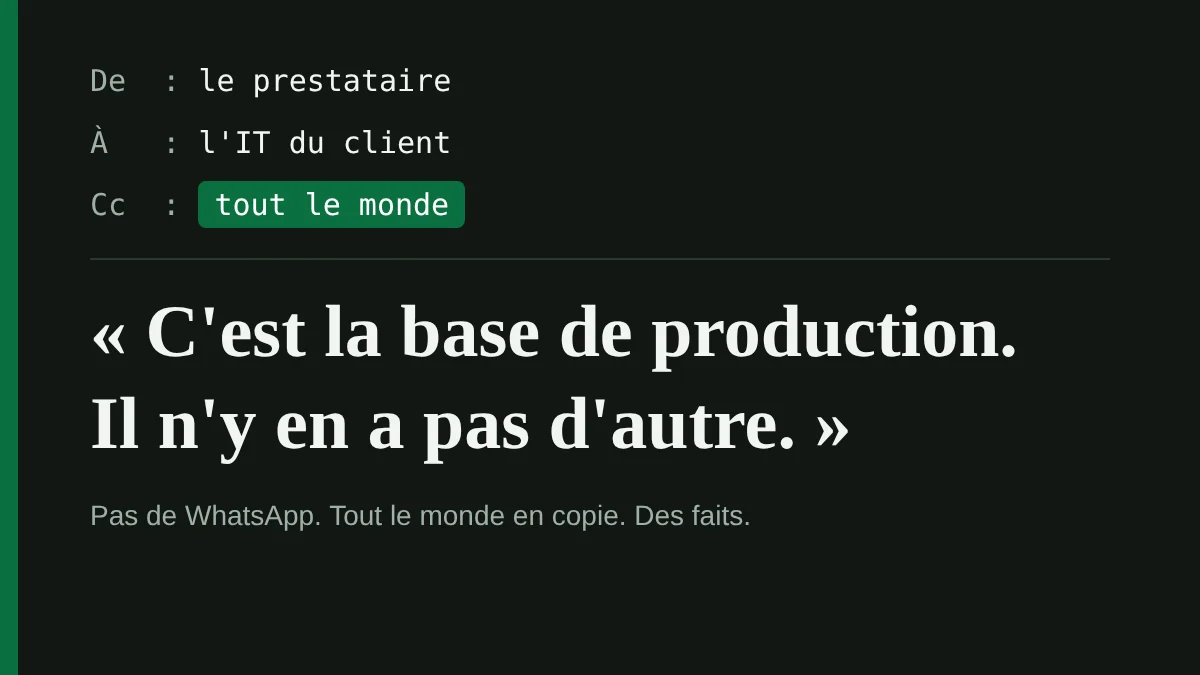
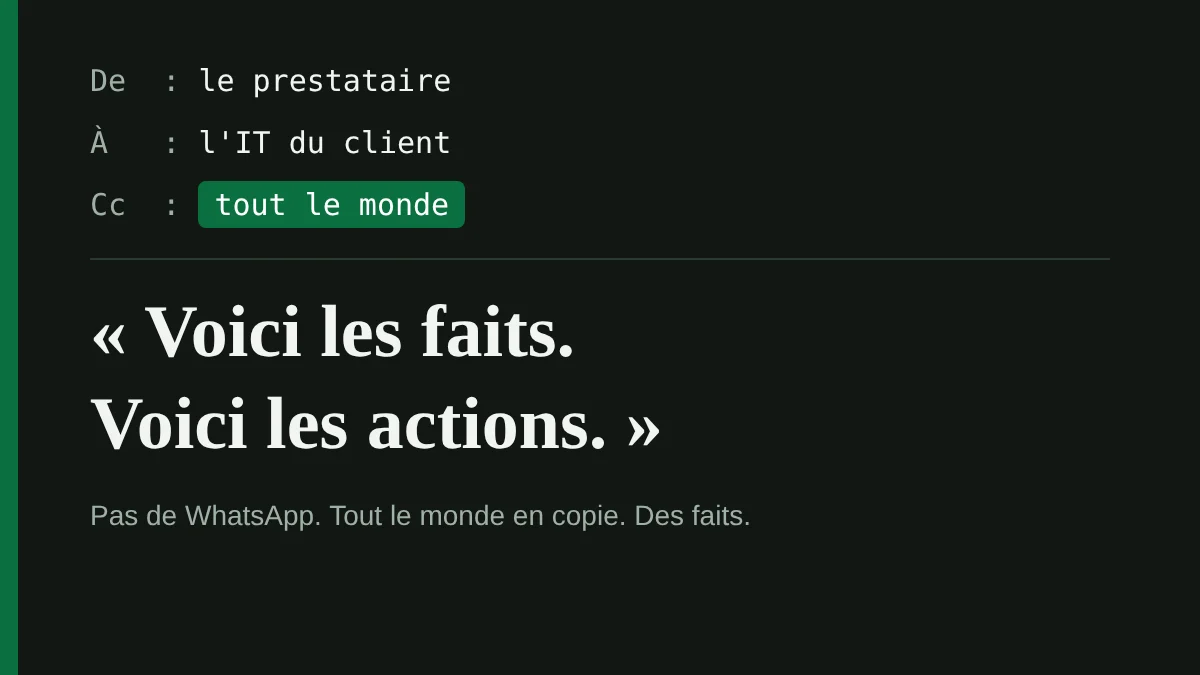
Billet IT client : anonymiser davantage (FR et EN)
Citations remplacées par des paraphrases, dates, heures, nombres et
détails techniques retirés, image de couverture sans citation du fil.

Claude-Session: https://claude.ai/code/session_015fgg8zxRFwjJopV1vDo4i5

Changed region(s): [[0.1233, 0.4356, 0.8633, 0.56], [0.0617, 0.5911, 0.6783, 0.6844], [0.6783, 0.6222, 0.7092, 0.6533]]

diff --git a/content/fr/20261110-remettre-it-client-a-sa-place.md b/content/fr/20261110-remettre-it-client-a-sa-place.md
@@ -18,24 +18,24 @@ J'ai une règle, tirée de l'expérience : plus il est junior, moins il connaît
 
 L'IT expérimenté pose deux questions, lit le README et déploie. Le junior, lui, doit montrer qu'il existe. Alors il fait des choses que personne ne lui a demandées.
 
-Exemple de cette semaine. J'ai retiré les noms, le reste est exact.
+Un exemple récent. J'ai retiré les noms et changé les détails qui permettraient de reconnaître le projet. Le déroulé, lui, est vrai.
 
-Lundi, 16 h 51. J'envoie le mail de mise en production. Le domaine d'envoi des e-mails est déjà vérifié, il n'y a rien à faire côté DNS. Les variables d'environnement sont dans un lien sécurisé. Quatre collègues sont en copie.
+J'envoie le mail de mise en production. Tout ce qui pouvait être préparé l'est déjà. Les variables d'environnement sont dans un lien sécurisé. Mes collègues sont en copie.
 
-La réponse tient en deux points. Le premier : une variable est vide. Le second, je le cite : « j'ai créé une propre base de données de notre côté pour ça, dois-je changer cela ? »
+La réponse tient en deux points. Le premier : une variable est vide. Le second : il a créé sa propre base de données de son côté, et il demande s'il doit changer cela.
 
-Relisez la phrase. L'application est livrée avec sa base, sécurisée, avec authentification multifacteur. Personne n'a demandé une deuxième base. Il en a créé une, il l'a branchée, et ensuite il demande s'il fallait.
+Relisez la phrase. L'application est livrée avec sa base, déjà sécurisée. Personne n'a demandé une deuxième base. Il en a créé une, il l'a branchée, et ensuite il demande s'il fallait.
 
 ## Ce que cette base a coûté
 
 Voici la suite, dans l'ordre.
 
-- **La variable vide.** C'était normal. Ce secret se génère à la création du webhook, et le webhook a besoin de l'URL finale de production. Il fallait donc attendre le déploiement. J'ai répondu avec ce qui fonctionne, ce qui ne fonctionne pas, et le fichier et la ligne où ça bloque.
-- **La base.** Retour à la base prévue. Le conteneur redémarre en boucle : la migration échoue parce que le schéma existe déjà.
-- **Le domaine.** L'application est servie sur un autre domaine que celui prévu. Et un secret de test est resté en place.
-- **Les comptes.** Une fois le site en ligne : « les anciens comptes admin, y compris moi-même, ne peuvent plus se connecter ». C'est normal aussi : ces comptes avaient été créés dans la base qu'il avait inventée.
+- **La variable vide.** C'était normal. Cette valeur ne peut être générée qu'après le déploiement. J'ai répondu avec ce qui fonctionne, ce qui ne fonctionne pas, et le fichier et la ligne où ça bloque.
+- **La base.** Retour à la base prévue. L'application redémarre en boucle, parce que l'installation avait été faite pour l'autre base.
+- **La configuration.** D'autres réglages ne sont pas ceux prévus, et une valeur de test est restée en place.
+- **Les comptes.** Une fois le site en ligne, les comptes administrateur ne fonctionnent plus, le sien compris. C'est normal aussi : ces comptes avaient été créés dans la base qu'il avait inventée.
 
-Treize messages au total, du lundi au mardi. À mon avis, sans la base surprise, quatre suffisaient.
+Plus d'une dizaine de messages au total. À mon avis, sans la base surprise, quatre suffisaient.
 
 ## La pédagogie : trois règles
 
@@ -53,17 +53,17 @@ En privé, « j'ai créé une autre base » devient un mois plus tard « le pres
 
 ### 3. Je pointe des faits
 
-Je n'écris pas « vous n'auriez pas dû ». J'écris : « C'est la base de production. Il n'y en a pas d'autre. »
+Je n'écris pas « vous n'auriez pas dû ». J'écris : « La base de production est celle du mail. Il n'y en a pas d'autre. »
 
-Ensuite vient la preuve : un contrôle fait directement sur la base, un objet témoin par migration, les quatorze présents, capture d'écran jointe. Ensuite viennent les actions, numérotées, une par ligne.
+Ensuite vient la preuve : un contrôle fait directement sur la base, étape par étape, avec la capture d'écran jointe. Ensuite viennent les actions, numérotées, une par ligne.
 
-Quand il m'a écrit que des comptes ne fonctionnaient plus, ma réponse faisait une ligne : « Merci d'indiquer directement la liste des comptes et adresses e-mail à recréer. » Pas de commentaire sur la cause. La cause est déjà écrite plus haut dans le fil, et tout le monde l'a lue.
+Quand il m'a écrit que des comptes ne fonctionnaient plus, ma réponse faisait une ligne : je lui ai demandé la liste des comptes à recréer. Pas de commentaire sur la cause. La cause est déjà écrite plus haut dans le fil, et tout le monde l'a lue.
 
 J'utilise la même méthode pour [vérifier un livrable annoncé comme terminé](/fr/20260908-cest-integre-dans-la-maquette) : un numéro de ligne ne se discute pas.
 
 ### Et ça marche
 
-Au milieu du fil, il a lu le README. Il a alors posé deux bonnes questions : est-ce bien la base de production, et jusqu'à quelle migration est-elle à jour ? J'ai répondu point par point, et le site était en ligne peu après.
+Au milieu du fil, il a lu la documentation. Il a alors posé deux bonnes questions, précises, sur l'état de la base. J'ai répondu point par point, et le site était en ligne peu après.
 
 C'est le but. Je ne cherche pas à l'écraser. Je cherche à l'amener sur les faits, parce que sur les faits il travaille bien.
 

diff --git a/content/en/20261110-remettre-it-client-a-sa-place.md b/content/en/20261110-remettre-it-client-a-sa-place.md
@@ -18,24 +18,24 @@ I have a rule, drawn from experience: the more junior they are, the less they kn
 
 An experienced IT person asks two questions, reads the README and deploys. A junior one has to show they exist. So they do things nobody asked for.
 
-Here is this week's example. I removed the names; the rest is accurate.
+Here is a recent example. I removed the names and changed the details that would identify the project. The sequence of events is true.
 
-Monday, 4:51 pm. I send the go-live email. The sending domain for emails is already verified, so there is nothing to do on the DNS side. The environment variables are in a secure link. Four colleagues are in copy.
+I send the go-live email. Everything that could be prepared already is. The environment variables are in a secure link. My colleagues are in copy.
 
-The reply has two points. First: one variable is empty. Second, and I quote (translated from French): "I created our own database on our side for this, should I change that?"
+The reply has two points. First: one variable is empty. Second: they created their own database on their side, and they ask whether they should change that.
 
-Read the sentence again. The application ships with its database, secured, with multi-factor authentication. Nobody asked for a second database. They created one, plugged it in, and then asked whether they should have.
+Read the sentence again. The application ships with its database, already secured. Nobody asked for a second database. They created one, plugged it in, and then asked whether they should have.
 
 ## What that database cost
 
 Here is what followed, in order.
 
-- **The empty variable.** That was normal. This secret is generated when the webhook is created, and the webhook needs the final production URL. So we had to wait for the deployment. I replied with what works, what does not work, and the file and line where it blocks.
-- **The database.** Back to the planned database. The container restarts in a loop: the migration fails because the schema already exists.
-- **The domain.** The application is served on a different domain from the planned one. And a test secret was left in place.
-- **The accounts.** Once the site was live: "the old admin accounts, including mine, can no longer log in". That was normal too: those accounts had been created in the database they had invented.
+- **The empty variable.** That was normal. This value can only be generated after the deployment. I replied with what works, what does not work, and the file and line where it blocks.
+- **The database.** Back to the planned database. The application restarts in a loop, because the installation had been done for the other database.
+- **The configuration.** Other settings are not the planned ones, and a test value was left in place.
+- **The accounts.** Once the site was live, the administrator accounts no longer worked, theirs included. That was normal too: those accounts had been created in the database they had invented.
 
-Thirteen messages in total, from Monday to Tuesday. In my opinion, without the surprise database, four would have been enough.
+More than ten messages in total. In my opinion, without the surprise database, four would have been enough.
 
 ## The teaching method: three rules
 
@@ -53,17 +53,17 @@ In private, "I created another database" becomes, a month later, "the contractor
 
 ### 3. I point to facts
 
-I don't write "you shouldn't have". I write: "This is the production database. There is no other one."
+I don't write "you shouldn't have". I write: "The production database is the one in the email. There is no other one."
 
-Then comes the proof: a check run directly on the database, one witness object per migration, all fourteen present, screenshot attached. Then come the actions, numbered, one per line.
+Then comes the proof: a check run directly on the database, step by step, with the screenshot attached. Then come the actions, numbered, one per line.
 
-When they wrote that some accounts no longer worked, my answer was one line: "Please send the list of accounts and email addresses to recreate." No comment on the cause. The cause is already written higher up in the thread, and everyone has read it.
+When they wrote that some accounts no longer worked, my answer was one line: I asked for the list of accounts to recreate. No comment on the cause. The cause is already written higher up in the thread, and everyone has read it.
 
 I use the same method to [check a deliverable announced as done](/en/20260908-cest-integre-dans-la-maquette): nobody argues with a line number.
 
 ### And it works
 
-In the middle of the thread, they read the README. They then asked two good questions: is this really the production database, and up to which migration is it current? I answered point by point, and the site was live shortly after.
+In the middle of the thread, they read the documentation. They then asked two good, precise questions about the state of the database. I answered point by point, and the site was live shortly after.
 
 That is the goal. I am not trying to crush anyone. I am trying to bring them onto the facts, because on the facts they work well.
 
